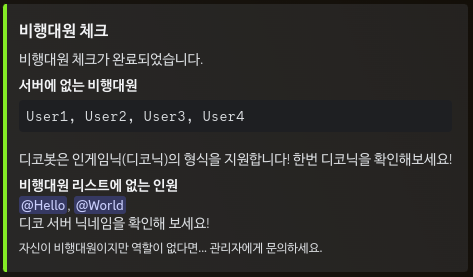
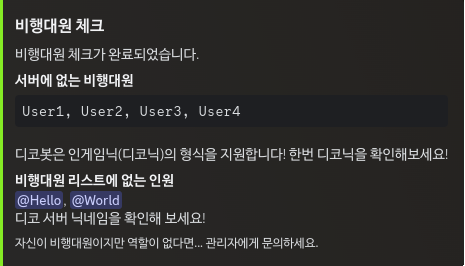
Add files via upload

Changed region(s): [[0.0, 0.0, 0.9634, 1.0], [0.9935, 0.0, 1.0, 1.0]]

diff --git a/css/style.css b/css/style.css
@@ -1,9 +1,15 @@
+html{
+    margin: 0px;
+}
+
 body{
-    min-width: 100vw;
-    min-height: 100vh;
+    /* max-width: 100vw; */
+    width: 100vw;
+    height: 100vh;
     margin: 0;
     font-family: "Noto Sans KR", sans-serif;
-    padding-top: 70px;
+    padding-top: 75px;
+    overflow-x: hidden;
 }
 
 button{
@@ -12,8 +18,38 @@ button{
 
 code{
     font-family: "Nanum Gothic Coding", monospace;
+    background-color: rgb(39, 39, 39);
+    padding: 3px 5px 3px 5px;
+    border-radius: 5px;
 }
 
+img{
+    transition: opacity 300ms ease-in;
+}
+
+img.func-img{
+    max-width: 450px;
+    width: auto;
+    border-radius: 7px;
+    --color: rgba(122, 122, 122, 0.69);
+    box-shadow: 0px 0px 7px 0px var(--color);
+    -webkit-box-shadow: 0px 0px 7px 0px var(--color);
+    -moz-box-shadow: 0px 0px 7px 0px var(--color);
+    aspect-ratio: auto;
+}
+
+div.funcs{
+    margin-bottom: 40px;
+}
+
+div.funcs > div{
+    background-color: rgba(50,50,60, 0.5);
+    border-radius: 10px;
+}
+
+div.funcs:last-child{
+    margin-bottom: 20px;
+}
 
 @media only screen and (max-width: 768px) {
     #bot-descrption {
@@ -21,3 +57,24 @@ code{
       background-repeat: no-repeat;
     }
   }
+
+::-webkit-scrollbar-track
+{
+	/* -webkit-box-shadow: inset 0 0 6px rgba(0,0,0,0.3); */
+	border-radius: 8px;
+    width: 8px;
+	background: transparent;
+    position: absolute;
+}
+
+::-webkit-scrollbar
+{
+	width: 8px;
+}
+
+::-webkit-scrollbar-thumb
+{
+	border-radius: 8px;
+	/* -webkit-box-shadow: inset 0 0 6px rgba(0,0,0,.3); */
+	background-color: #424242;
+}

diff --git a/pages/terms.html b/pages/terms.html
@@ -1,9 +1,11 @@
-<h1>AITG 봇 이용약관 및 개인정보 처리 방침</h1>
-<p>아래의 내용은 최종사항이 아니며, 수정될 수 있습니다.</p>
-<p>봇을 서버에 추가하여 사용하는 순간부터 아래의 내용에 동의하는것으로 간주합니다.</p>
-<ul>
-<li>AITG봇(이하 봇) 은 여러분의 개인정보를 요구하거나 저장하지 않습니다.</li>
-<li>봇은 여러분의 메시지 내역, 음성통화 기록을 저장하지 않습니다.</li>
-<li>봇은 디코상에서 봇이 접근 가능한 정보(사용자ID, 서버ID)등을 저장합니다.</li>
-<li>여러분이 사용한 명령어 및 명령어 변수값은 통계분석등을 목적으로 저장될 수 있습니다.</li>
-</ul>
+<div class="w-75">
+    <h1>AITG 봇 이용약관 및 개인정보 처리 방침</h1>
+    <p>아래의 내용은 최종사항이 아니며, 수정될 수 있습니다.</p>
+    <p>봇을 서버에 추가하여 사용하는 순간부터 아래의 내용에 동의하는것으로 간주합니다.</p>
+    <ul>
+    <li>AITG봇(이하 봇) 은 여러분의 개인정보를 요구하거나 저장하지 않습니다.</li>
+    <li>봇은 여러분의 메시지 내역, 음성통화 기록을 저장하지 않습니다.</li>
+    <li>봇은 디코상에서 봇이 접근 가능한 정보(사용자ID, 서버ID)등을 저장합니다.</li>
+    <li>여러분이 사용한 명령어 및 명령어 변수값은 통계분석등을 목적으로 저장될 수 있습니다.</li>
+    </ul>
+</div>

diff --git a/pages/commands.html b/pages/commands.html
@@ -1,1 +1,26 @@
-<h2>조금만 기다려 주세요...</h2>
+<div class="d-flex flex-column w-100">
+    <div class="d-flex flex-column align-items-center funcs">
+        <div class="d-flex flex-row align-items-center flex-wrap w-75">
+            <div class="d-flex flex-column m-4">
+                <img src="./imgs/thundernews.png" class="img-fluid func-img">
+            </div>
+            <div class="d-flex justify-content-center flex-column flex-fill ps-lg-4 align-items-start">
+                <h4>워썬더 뉴스</h4>
+                <p><code>/워썬더 뉴스</code>, <code>/워썬더 뉴스구독</code></p>
+                <p>자동으로 최신 워썬더 뉴스를 가져와요!</p>
+            </div>
+        </div>
+    </div>
+    <div class="d-flex flex-column align-items-center funcs">
+        <div class="d-flex flex-row-reverse align-items-center flex-wrap w-75">
+            <div class="d-flex flex-column  m-4">
+                <img src="./imgs/clanmatecheck.png" class="img-fluid func-img">
+            </div>
+            <div class="d-flex justify-content-center flex-column flex-fill pe-lg-4 align-items-end">
+                <h4>클랜원체크</h4>
+                <p><code>/워썬더 비행대원체크</code></p>
+                <p>클랜이름이 설정되면 누가 있는지, 없는지 알려줘요!</p>
+            </div>
+        </div>
+    </div>
+</div>

diff --git a/css/loader.css b/css/loader.css
@@ -1,0 +1,22 @@
+.loader {
+    height: 30px;
+    aspect-ratio: 2.5;
+    --_g: no-repeat radial-gradient(farthest-side,#dbdbdb 90%,#a3bef100);
+    background:var(--_g), var(--_g), var(--_g), var(--_g);
+    background-size: 20% 50%;
+    animation: l43 1s infinite linear; 
+    position: absolute;
+    top: 50%;
+    left: 50%;
+    transform: translateX(-50%) translateY(-50%);
+}
+
+@keyframes l43 {
+    0%     {background-position: calc(0*100%/3) 50% ,calc(1*100%/3) 50% ,calc(2*100%/3) 50% ,calc(3*100%/3) 50% }
+    16.67% {background-position: calc(0*100%/3) 0   ,calc(1*100%/3) 50% ,calc(2*100%/3) 50% ,calc(3*100%/3) 50% }
+    33.33% {background-position: calc(0*100%/3) 100%,calc(1*100%/3) 0   ,calc(2*100%/3) 50% ,calc(3*100%/3) 50% }
+    50%    {background-position: calc(0*100%/3) 50% ,calc(1*100%/3) 100%,calc(2*100%/3) 0   ,calc(3*100%/3) 50% }
+    66.67% {background-position: calc(0*100%/3) 50% ,calc(1*100%/3) 50% ,calc(2*100%/3) 100%,calc(3*100%/3) 0   }
+    83.33% {background-position: calc(0*100%/3) 50% ,calc(1*100%/3) 50% ,calc(2*100%/3) 50% ,calc(3*100%/3) 100%}
+    100%   {background-position: calc(0*100%/3) 50% ,calc(1*100%/3) 50% ,calc(2*100%/3) 50% ,calc(3*100%/3) 50% }
+}

diff --git a/includes/navbar.html b/includes/navbar.html
@@ -1,4 +1,4 @@
-<nav class="navbar navbar-expand-lg fixed-top" style="background-color: rgba(0, 0, 0, 0.2);">
+<nav class="navbar navbar-expand-lg fixed-top" style="background-color: rgb(40, 44, 48);">
     <div class="container-fluid w-80">
         <a class="navbar-brand" hx-get="./pages/landing.html" hx-trigger="click" hx-target="#mainarea" href="#">AITGbot</a>
         <button class="navbar-toggler" type="button" data-bs-toggle="collapse" data-bs-target="#navbarSupportedContent" aria-controls="navbarSupportedContent" aria-expanded="false" aria-label="Toggle navigation">
@@ -15,6 +15,9 @@
                 </li>
                 <li class="nav-item">
                     <a class="nav-link" hx-get="./pages/terms.html" hx-trigger="click" hx-target="#mainarea" href="#">이용약관</a>
+                </li>
+                <li class="nav-item">
+                    <a class="nav-link" href="https://discord.com/oauth2/authorize?client_id=1181513333002739772">봇초대</a>
                 </li>
             </ul>
             <ul class="navbar-nav justify-content-end">

diff --git a/pages/landing.html b/pages/landing.html
@@ -1,7 +1,7 @@
-<div class="d-flex flex-row flex-grow-1">
+<div class="d-flex flex-row flex-grow-1 w-75">
     <div id="bot-descrption" class="d-flex flex-column justify-content-center flex-fill">
-        <h3>워썬더는 AITG면 끝</h3>
-        <p>하나의 봇으로 서버관리, 클랜원관리에 워썬더 소식까지!</p>
+        <h2>워썬더는 AITG면 끝</h2>
+        <p class="fs-4">하나의 봇으로 서버관리, 클랜원관리에 워썬더 소식까지!</p>
         <div class="d-flex flex-row justify-content-start">
             <a class="btn btn-primary me-2" href="https://discord.com/oauth2/authorize?client_id=1181513333002739772" role="button">서버에 봇 추가하기</a>
             <a class="btn btn-info" hx-get="./pages/commands.html" hx-trigger="click" hx-target="#mainarea" role="button">기능 둘러보기</a>

diff --git a/commands.html b/commands.html
@@ -15,7 +15,7 @@
 </head>
 <body class="d-flex flex-column align-items-center flex-grow-1">
     <div hx-get="./includes/navbar.html" hx-trigger="load"></div>
-    <main class="d-flex flex-column flex-grow-1 align-items-center w-100 mw-100" id="mainarea" hx-get="./pages/landing.html" hx-trigger="load">
+    <main class="d-flex flex-column flex-grow-1 align-items-center w-100 mw-100" id="mainarea" hx-get="./pages/commands.html" hx-trigger="load">
         <div class="loader"></div>
     </main>
     <div hx-get="./includes/footer.html" hx-trigger="load"></div>

diff --git a/terms.html b/terms.html
@@ -15,7 +15,7 @@
 </head>
 <body class="d-flex flex-column align-items-center flex-grow-1">
     <div hx-get="./includes/navbar.html" hx-trigger="load"></div>
-    <main class="d-flex flex-column flex-grow-1 align-items-center w-100 mw-100" id="mainarea" hx-get="./pages/landing.html" hx-trigger="load">
+    <main class="d-flex flex-column flex-grow-1 align-items-center w-100 mw-100" id="mainarea" hx-get="./pages/terms.html" hx-trigger="load">
         <div class="loader"></div>
     </main>
     <div hx-get="./includes/footer.html" hx-trigger="load"></div>

diff --git a/includes/footer.html b/includes/footer.html
@@ -1,8 +1,8 @@
 <footer class="text-center footer vw-100">
     <!-- Copyright -->
-    <div class="text-center p-3"  style="background-color: rgba(0, 0, 0, 0.2);">
+    <div class="text-center p-3"  style="background-color: rgb(40, 44, 48);">
         © 2024 Copyright:
-        <a class="text-body" href="#">AITG Discord Bot</a>
+        <a class="text-body" href="https://github.com/macqueen0987/AITG_Release">macqueen0987</a>
     </div>
     <!-- Copyright -->
 </footer>
